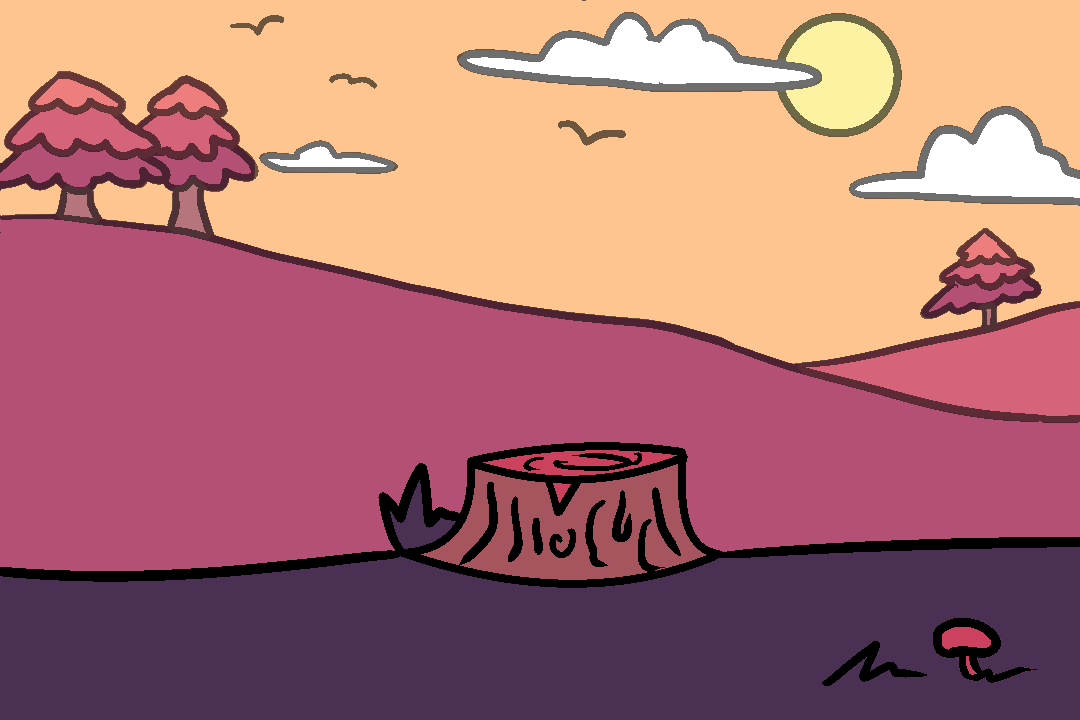
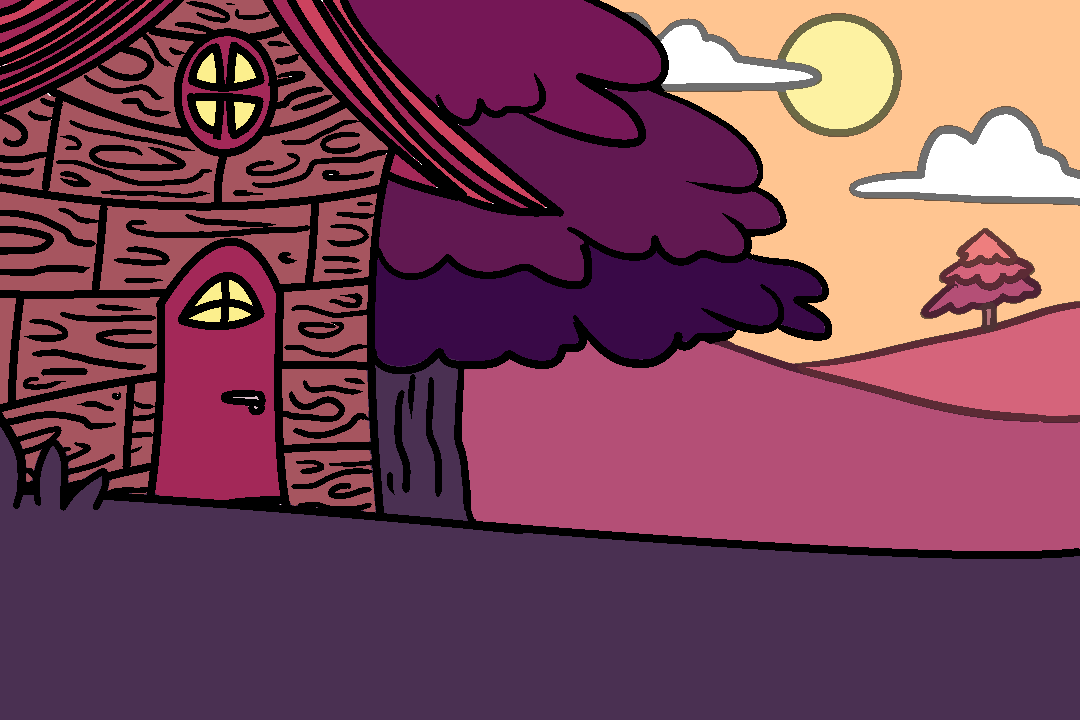
added the sliding of the 4 background of level 1 (lisa)

diff --git a/main.py b/main.py
@@ -19,9 +19,13 @@ move_right = False
 move_left = False
 # Allow us to know at which walking frame the player is
 stepIndex = 0
-background = pygame.image.load('assets/Levels/Level 1/level1 - first.png')
 
-# Load images of the characters
+background_index = 0
+background = [pygame.image.load('assets/Levels/Level 1/level1 - first.png'),
+              pygame.image.load('assets/Levels/Level 1/level1 - second.png'),
+              pygame.image.load('assets/Levels/Level 1/level1 - third.png'),
+              pygame.image.load('assets/Levels/Level 1/level1 - fourth.png')]
+
 player_stationary = pygame.image.load('assets/player_walking_frames/right/walk1.png')
 
 right = [pygame.image.load('assets/player_walking_frames/right/walk1.png'),
@@ -42,17 +46,24 @@ left = [pygame.image.load('assets/player_walking_frames/left/walk1.png'),
         pygame.image.load('assets/player_walking_frames/left/walk7.png'),
         pygame.image.load('assets/player_walking_frames/left/walk8.png')]
 
+resting = [pygame.image.load('assets/player_resting_frames/rest1.png'),
+        pygame.image.load('assets/player_resting_frames/rest2.png'),
+        pygame.image.load('assets/player_resting_frames/rest1.png'),
+        pygame.image.load('assets/player_resting_frames/rest2.png'),
+        pygame.image.load('assets/player_resting_frames/rest1.png'),
+        pygame.image.load('assets/player_resting_frames/rest2.png')]
+
 # Blit allows us to draw the png pictures onto the player's assigned ppsition
 def draw_game():
     global stepIndex
-    screen.blit(background, (0,0))
+    screen.blit(background[background_index], (0, 0))
     # If the player already went through all 8 walking frames, we reset it to 0
     if stepIndex >= 8:
         stepIndex = 0
     # If player goes right, we go through the right list walking frames
     elif move_right:
         screen.blit(right[stepIndex], (game.player.rect.x, game.player.rect.y))
-        time.sleep(0.06)
+        time.sleep(0.05)
         stepIndex += 1
     # If player goes right, we go through the left list walking frames
     elif move_left:
@@ -62,6 +73,7 @@ def draw_game():
     # If the player neither goes left or right, we just apply the stationary frame to it
     else:
         screen.blit(player_stationary, (game.player.rect.x, game.player.rect.y))
+
 
 
 # load our game
@@ -84,10 +96,7 @@ while running:
         game.player.init_next()
         move_right = True
         move_left = False
-    elif game.pressed.get(pygame.K_LEFT) and game.player.rect.x < 0:
-        game.player.init_previous()
-        move_right = False
-        move_left = False
+        background_index += 1
     else:
         stepIndex = 0
 

diff --git a/player.py b/player.py
@@ -11,8 +11,8 @@ class Player(pygame.sprite.Sprite):
 
     def __init__(self):
         super().__init__()
-        self.velocity = 13
-        self.image = pygame.image.load('assets/player_walking_frames/walk1.png')
+        self.velocity = 10
+        self.image = pygame.image.load('assets/player_resting_frames/rest1.png')
         self.rect = self.image.get_rect()
         self.rect.x = 100
         self.rect.y = 362
